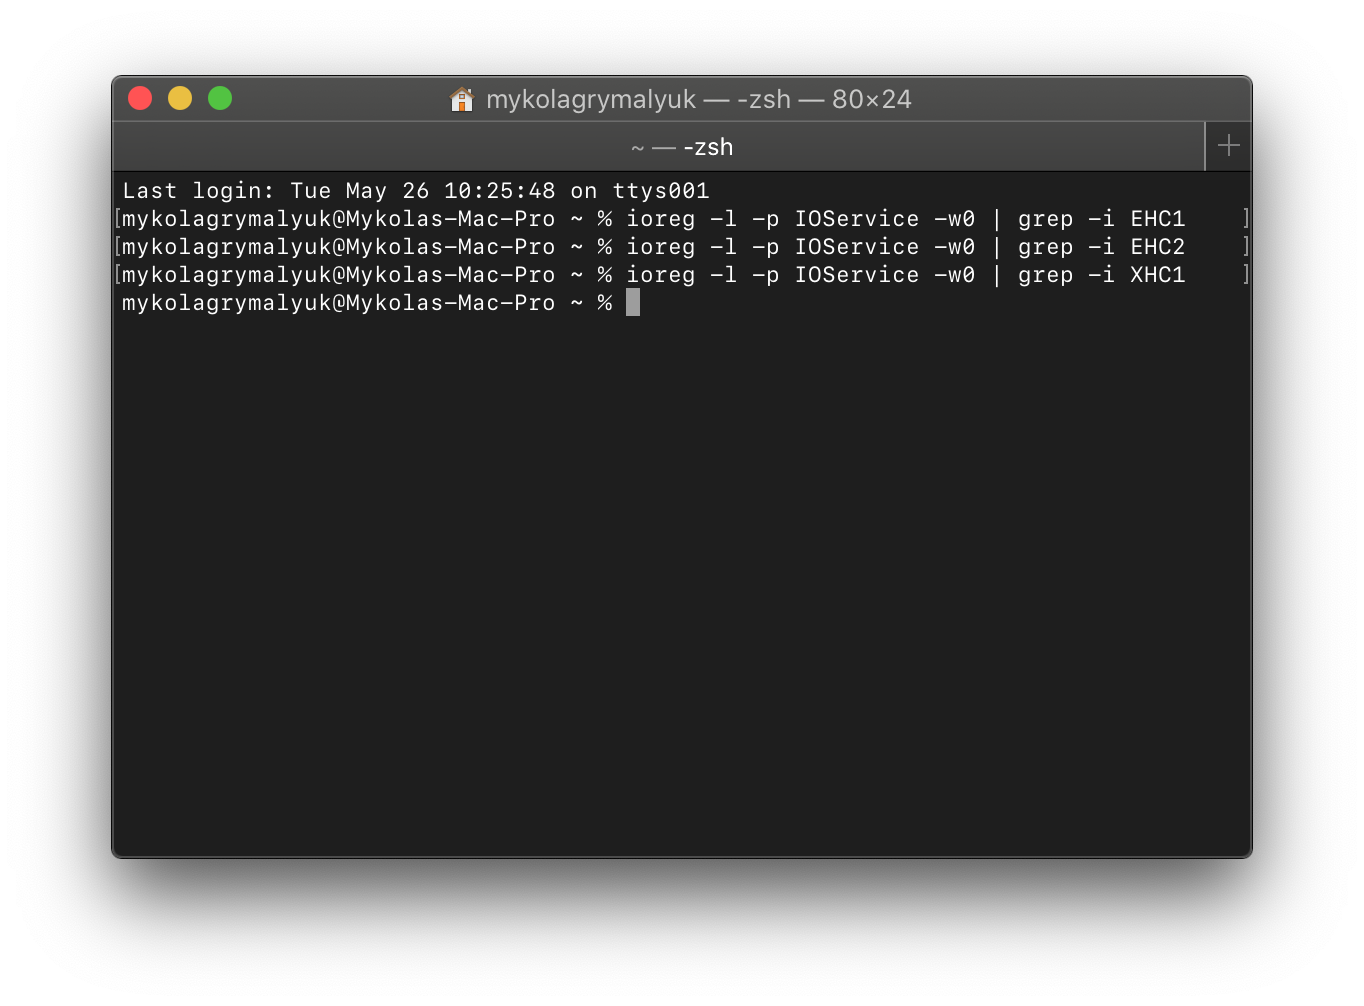
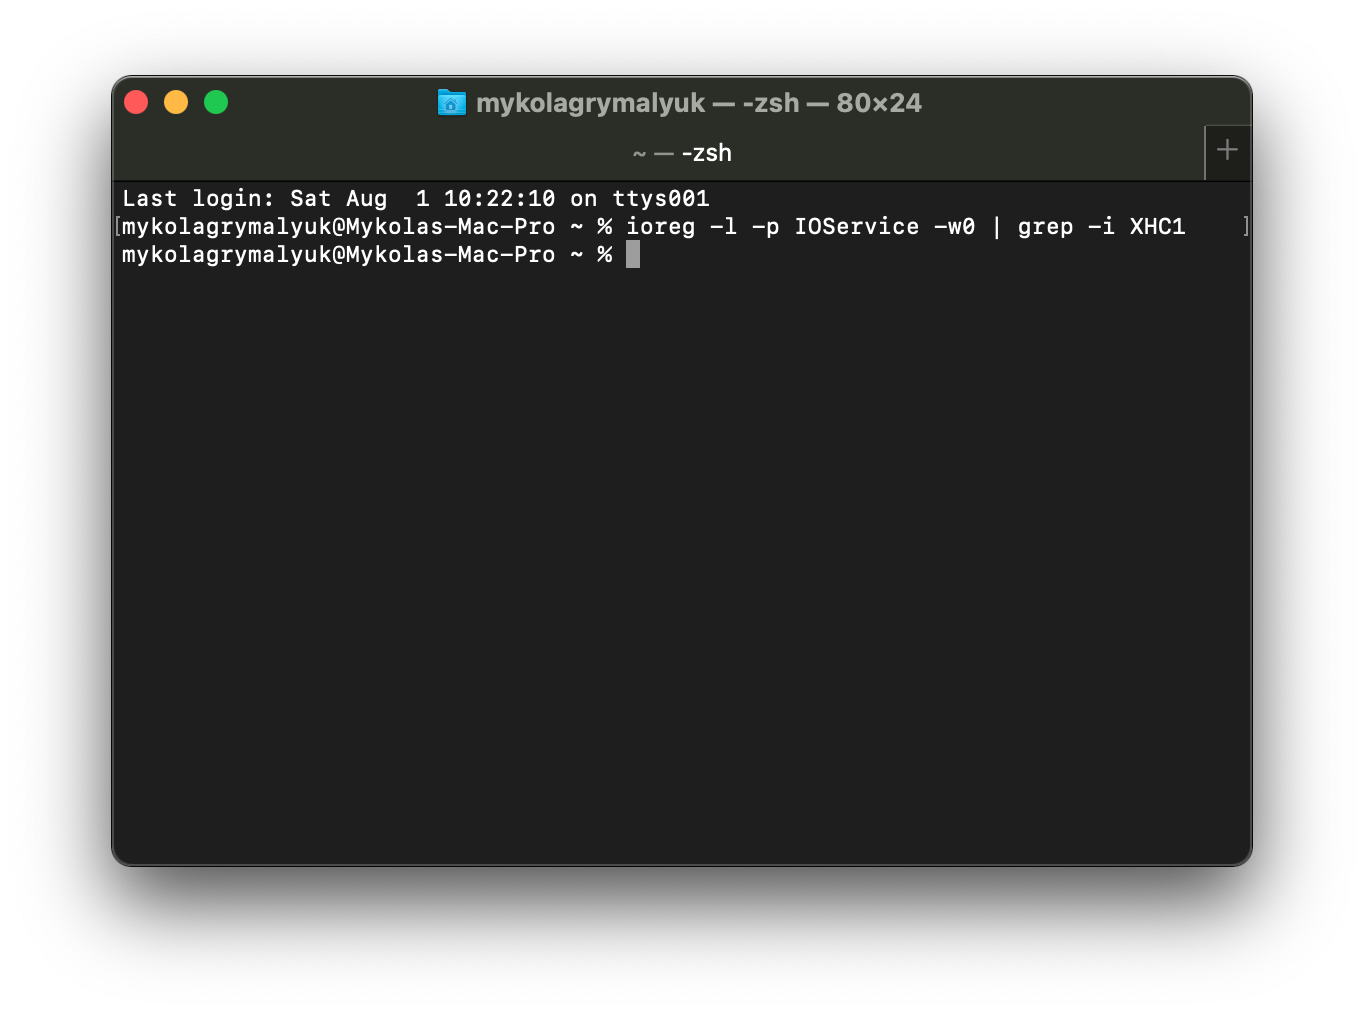
Fix images

Changed region(s): [[0.0616, 0.0616, 0.9238, 0.3082], [0.893, 0.832, 0.9238, 0.8628]]

diff --git a/usb/manual/manual.md b/usb/manual/manual.md
@@ -1,13 +1,6 @@
 # USB Mapping
 
-Table of Contents:
-
-* [AMD and 3rd Party USB Mapping](#amd-and-3rd-party-usb-mapping)
-* [Creating the map](#creating-the-map)
-* [Port mapping on screwed up DSDTs](#port-mapping-on-screwed-up-dsdts)
-* [Port mapping when you have multiple of the same controller](#port-mapping-when-you-have-multiple-of-the-same-controller)
-
-So with the prerequisites out of the way, we can finally get to the meat of this guide. And now we get to finally read one of my favorite books before I go to bed each night: [The Advanced Configuration and Power Interface (ACPI) Specification!](https://uefi.org/sites/default/files/resources/ACPI_6_3_final_Jan30.pdf)
+So with the prerequisites out of the way, we can finally get to the meat of this guide. And now we get to finally read one of my favourite books before I go to bed each night: [The Advanced Configuration and Power Interface (ACPI) Specification!](https://uefi.org/sites/default/files/resources/ACPI_6_3_final_Jan30.pdf)
 
 Now if you haven't read through this before(which I highly recommend you do, it's a thrilling tale), I'll point you to the meat of the USB situation:
 
@@ -33,7 +26,7 @@ This section is for those who want to get down into the meats of their hackintos
   * This is due to how macOS enumerates ports, trying to map from other OSes makes this difficult
   * Note: This guide will be focusing on OS X 10.11, El Capitan and newer. Older OSes shouldn't require any USB mapping
 * Non-conflicting USB names
-  * See previous section: [Checking what renames you need](../usb/system-preparation.md#checking-what-renames-you-need)
+  * See previous section: [Checking what renames you need](../../system-preparation.md#checking-what-renames-you-need)
 * A USB 2.0 and USB 3.0 device to test with
   * You must have 2 separate devices as to ensure no mix ups with personalities
 * [IORegistryExplorer.app](https://github.com/khronokernel/IORegistryClone/blob/master/ioreg-302.zip)

diff --git a/usb/system-preparation.md b/usb/system-preparation.md
@@ -97,19 +97,25 @@ SMBIOS needing XHC1, EHC1 and EHC2 renames:
 * MacBookAir5,x  and older
 * MacBookPro11,x and older
 
-Now that we know what renames our SMBIOS need, we can next check the names of our USB controllers. Run the following in terminal:
+Now that we know what renames our SMBIOS need, we can next check the names of our USB controllers. 
 
-```
-ioreg -l -p IOService -w0 | grep -i EHC1
-ioreg -l -p IOService -w0 | grep -i EHC2
+### Checking IOService
+
+Let's take XHC1 and execute the following command:
+
+```sh
 ioreg -l -p IOService -w0 | grep -i XHC1
 ```
-
-We recommend running 1 at a time as terminal may get flooded if you tried to search for all 3 at the same time, the below example shows we don't have anything named EH01 or EH02 **but** we do however require that XHC1 rename:
-
-Rename needed    |  Rename **NOT** needed
+If you see this, you need a rename: |  If you see this, you do not need a rename:
 :-------------------------:|:-------------------------:
 ![](../images/system-preperation-md/ioreg-name.png)  |  ![](../images/system-preperation-md/no-rename-needed.png)
+
+Repeat this step for all the other relevant conflicting devices (e.g. EHC1, EHC2) as listed in the table above for your model.
+
+```sh
+ioreg -l -p IOService -w0 | grep -i EHC1
+ioreg -l -p IOService -w0 | grep -i EHC2
+```
 
 And with that, we now add our needed ACPI renames to our config.plist -> ACPI -> Patch, you can find a pre-made file here(note that you'll need to enable the ones you need):
 
